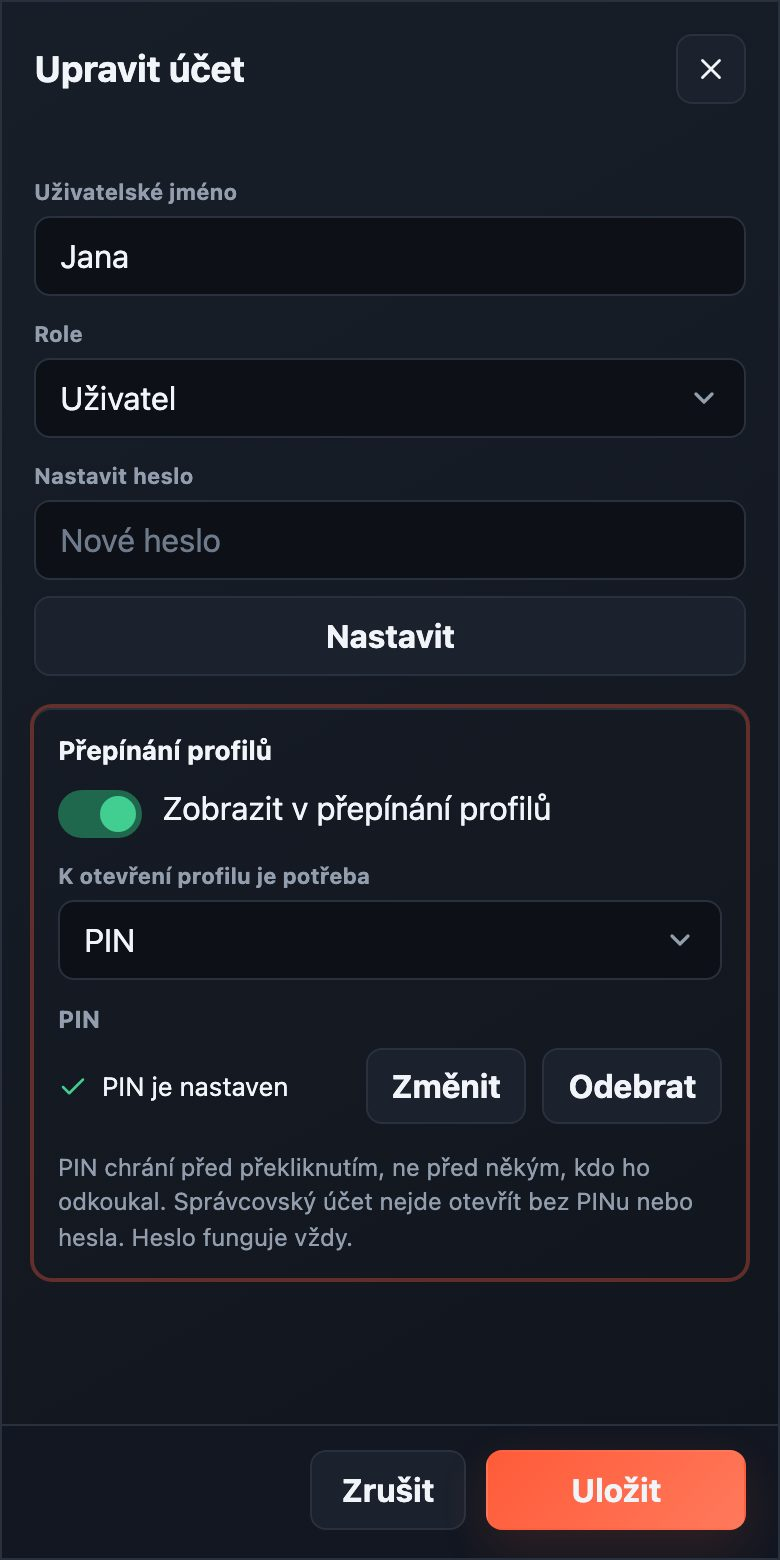
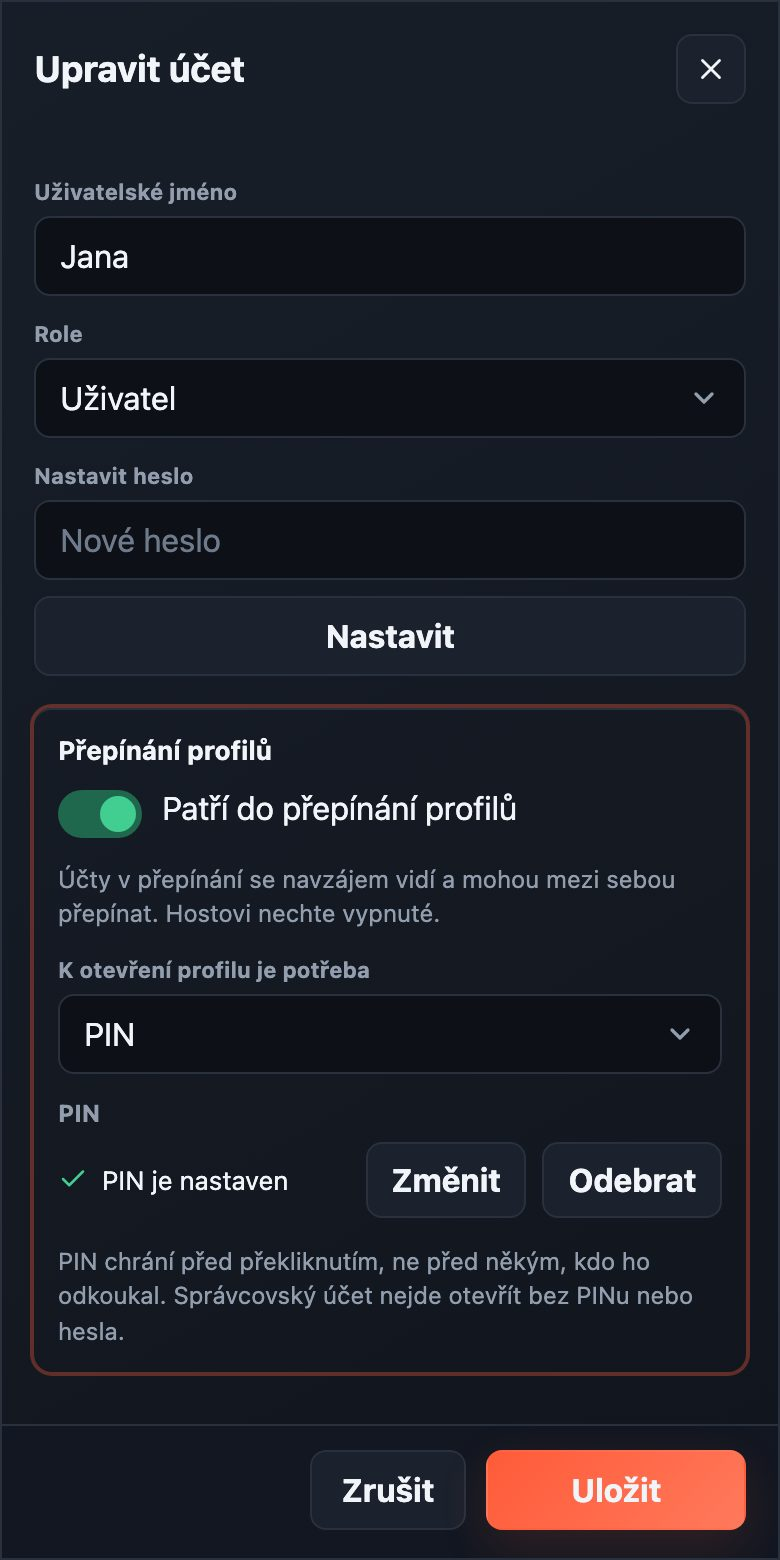
Make the profile switcher a closed group
Only accounts the administrator put in the switcher may list profiles or
switch, and only among themselves, so a guest account learns no names and
enters nothing. Records the first-entry-by-password rule as deferred.

diff --git a/docs/profile-switching-prototype/web.js b/docs/profile-switching-prototype/web.js
@@ -50,10 +50,11 @@ const admin = () => dialog("<h2>Upravit účet</h2>", `<section class="user-edit
     <label class="user-edit-field"><span>Role</span><select><option>Uživatel</option></select></label></div>
   <div class="user-edit-password"><label class="user-edit-field"><span>Nastavit heslo</span><input type="password" placeholder="Nové heslo"></label><button>Nastavit</button></div>
   <div class="profile-block proto-new" style="padding:12px"><h3>Přepínání profilů</h3>
-    <label class="user-switch"><span class="switch"><input type="checkbox" checked><span></span></span><span>Zobrazit v přepínání profilů</span></label>
+    <label class="user-switch"><span class="switch"><input type="checkbox" checked><span></span></span><span>Patří do přepínání profilů</span></label>
+    <p class="identify-hint">Účty v přepínání se navzájem vidí a mohou mezi sebou přepínat. Hostovi nechte vypnuté.</p>
     <div class="profile-block-row admin"><label class="user-edit-field"><span>K otevření profilu je potřeba</span><select><option>PIN</option><option>Nic</option><option>Heslo</option></select></label>
       <div class="user-edit-field"><span style="font-size:12px;color:var(--muted)">PIN</span><div class="profile-pin-state"><span>${I.check} PIN je nastaven</span><button>Změnit</button><button>Odebrat</button></div></div></div>
-    <p class="identify-hint">PIN chrání před překliknutím, ne před někým, kdo ho odkoukal. Správcovský účet nejde otevřít bez PINu nebo hesla. Heslo funguje vždy.</p></div>
+    <p class="identify-hint">PIN chrání před překliknutím, ne před někým, kdo ho odkoukal. Správcovský účet nejde otevřít bez PINu nebo hesla.</p></div>
   </section>`, `<button>Zrušit</button><button class="primary">Uložit</button>`, "user-edit-card");
 
 const own = () => `${chrome(false).replace(/<div class="proto-page">[\s\S]*?<\/div>/, `<div class="proto-page"><h2>Nastavení</h2><div class="proto-settings">

diff --git a/docs/profile-switching-spec.md b/docs/profile-switching-spec.md
@@ -19,7 +19,7 @@ one, without weakening what an account protects.
 | Question | Decision |
 | --- | --- |
 | What is a profile? | **An existing account.** No profiles under an account, no second key in personal data. "Profile" is only the word the switcher uses. |
-| Who decides which accounts can be switched to? | The administrator, per account. Off for every existing and new account. |
+| Who can switch, and to whom? | The administrator marks accounts as **in the profile switcher**. That one mark works both ways: the marked accounts see each other and can switch among themselves. An account without it — a friend's, a guest's — sees no profiles and cannot switch at all. Off for every existing and new account. |
 | What does entering a profile take? | Per account: **nothing**, a **PIN**, or the **password**. The default is the password. An administrator account can never be entered with nothing. |
 | What does a device show when it starts? | The account that was last active on it, as today. There is no "Who is watching?" screen and no household-device token. |
 | Kids mode | Out of scope. It comes after this and builds on it. |
@@ -60,14 +60,21 @@ Read [users.md](users.md) first. The parts this design leans on:
 5. **Attempts are counted per target account**, not per address: behind a
    reverse proxy the whole household shares one address, and four digits are
    only 10,000 guesses.
-6. **Who is listed is a disclosure the administrator opts into.** An account
-   not marked for the switcher is answered exactly like one that does not
-   exist.
+6. **The switcher is a closed group the administrator chooses.** Only an
+   account in it may list profiles or switch, and only to another account in
+   it. Having an account on the instance is not enough: somebody given an
+   account as a guest learns no names and enters nothing. To everybody, an
+   account outside the group is answered exactly like one that does not exist.
 
 A PIN is a convenience between people who share a living room. It is not a
 parental boundary on its own: a child who watches a parent type four digits has
 them. That is why the administrator's account defaults to the password and why
 the unlock method is chosen per account.
+
+`unlock: "none"` means what it says: any member of the group, on any device
+they are signed in on, enters that profile. A stricter rule — the first entry
+on each device takes the password, and a PIN or nothing works only after
+that — was considered and deferred; see [Not in this design](#not-in-this-design).
 
 ## Data model
 
@@ -76,7 +83,7 @@ mean today's behaviour, so no migration and no `schemaVersion` bump.
 
 | Field | Meaning |
 | --- | --- |
-| `switcher?: boolean` | The account is offered in the switcher. |
+| `switcher?: boolean` | The account is in the switcher group: it is offered to the other members and may itself switch. |
 | `unlock?: "none" \| "pin" \| "password"` | What entering it from the switcher takes. Absent means `"password"`. |
 | `pinHash?: string` | scrypt hash of the PIN, the same scheme as `passwordHash`. Never leaves the server. |
 
@@ -101,8 +108,8 @@ carries `cache-control: private, no-store`.
 
 ### `GET /profiles`
 
-For any signed-in account. Lists the accounts that can be switched to from this
-session.
+For any signed-in account. Lists the switcher group as this session sees it.
+A caller that is not in the group gets an empty list.
 
 ```json
 { "profiles": [
@@ -111,9 +118,11 @@ session.
 ] }
 ```
 
-- Contains accounts with `switcher: true` that are enabled and do not owe a
-  password change. The caller's own account is included only if it is marked
-  too, with `current: true`.
+- For a caller with `switcher: true`: the accounts with `switcher: true` that
+  are enabled and do not owe a password change, the caller's own among them
+  with `current: true`.
+- For any other caller: `{ "profiles": [] }`, the same answer an instance
+  with no group gives.
 - Order: the order of the account list, which is creation order.
 - `pinLocked` is present for `unlock: "pin"` and true while the PIN is locked
   (see [attempt limits](#attempt-limits)); the client then asks for the
@@ -127,8 +136,10 @@ session.
 Body: `{ "id": "usr_…", "pin"?: "1234", "password"?: "…" }`.
 
 1. The caller needs a valid session that does not owe a password change.
-2. The target must be in the caller's `GET /profiles` list and not be the
-   caller. Otherwise `404 err.profileUnavailable`, whatever the reason.
+2. The caller must be in the group, and the target must be in the caller's
+   `GET /profiles` list and not be the caller. Otherwise
+   `404 err.profileUnavailable`, whatever the reason: a caller outside the
+   group cannot tell a member from an account that does not exist.
 3. If the attempt limit says wait: `429 err.tooManyAttempts` with
    `retry-after`, before any secret is checked.
 4. Check the secret:
@@ -141,8 +152,9 @@ Body: `{ "id": "usr_…", "pin"?: "1234", "password"?: "…" }`.
      thing accepted while the PIN is locked. It is the same credential the
      sign-in screen takes.
 5. On success, inside one `store.update` that re-reads both accounts:
-   - re-check that the target is still listed, enabled, not owing a password
-     change and that its secret is the one the hash was checked against;
+   - re-check that the caller is still in the group and that the target is
+     still listed, enabled, not owing a password change and that its secret
+     is the one the hash was checked against;
    - add the caller's session id to the caller's `revoked` ledger;
    - set the target's `lastSeenAt`.
 6. Issue a session for the target signed with the target's secret, with the
@@ -178,7 +190,7 @@ the fallback rule above. Clears the attempt counter for this account.
 ### `GET /auth/me`
 
 Gains `canSwitch: boolean`: true when `GET /profiles` would return at least one
-entry other than the caller. Clients show the switcher entry only then, without
+entry other than the caller, so always false for an account outside the group. Clients show the switcher entry only then, without
 a second request on every start. Also gains `hasPin: boolean` for the caller's
 own settings.
 
@@ -299,7 +311,9 @@ stops them either way.
 
 - **Settings -> Users -> account dialog**, on the Account tab under the
   password, a **Profile switching** block:
-  - a switch **Show in the profile switcher**;
+  - a switch **In the profile switcher**, with a line under it: *Accounts in
+    the switcher see each other and can switch among themselves. Leave it off
+    for a guest.*;
   - **To open this profile**: a select with *Nothing*, *PIN*, *Password*.
     *Nothing* is absent for an administrator. Disabled while the switch above
     is off;
@@ -310,9 +324,8 @@ stops them either way.
     watched it being typed.
   The user list shows a small marker on accounts that are in the switcher.
 - **Settings -> Account**: **Profile PIN** for the signed-in account: set,
-  change or remove, each asking for the current password. Shown to every
-  account; a line says whether the administrator has put this account in the
-  switcher.
+  change or remove, each asking for the current password. Shown only to an
+  account that is in the switcher; a PIN is of no use to any other.
 
 ![The block in the account dialog](profile-switching-prototype/screens/web-admin.jpg)
 
@@ -353,6 +366,14 @@ All strings go through `web/src/i18n/en.ts` and `cs.ts`.
 
 - A profile chooser at start-up, and remembering a device as belonging to the
   household after sign-out.
+- **First entry on a device by password.** A PIN or nothing would work only on
+  a device where that account has already signed in with its password, proven
+  by a signed record the device keeps until the password changes. It would
+  stop one member entering another's profile on a device that person never
+  used, at the cost of device state and of typing every password once on each
+  television. Deferred by the owner on 2026-11-14 until the closed group
+  proves insufficient.
+- Separate rights to be listed and to switch. One mark covers both.
 - Kids mode: a child policy, a simplified Home, age ratings.
 - Profiles under one account, avatars or colours chosen by the user.
 - Biometric unlock, PIN on the sign-in screen, PIN for single actions
@@ -364,6 +385,10 @@ All strings go through `web/src/i18n/en.ts` and `cs.ts`.
 Server, as route tests against a real `Store`:
 
 - an unlisted, disabled, must-change or unknown target answers the same 404;
+- a caller outside the group gets an empty list, `canSwitch: false` and the
+  same 404 for a member, a non-member and an unknown id, even for a member
+  whose method is `none`; taking a caller out of the group between the check
+  and the write refuses the switch;
 - none / PIN / password each switch and each refuse the wrong secret;
 - a password works for a PIN profile and for a locked PIN;
 - the old session is revoked and stopped, the new one verifies with the

diff --git a/docs/profile-switching-agent-task.md b/docs/profile-switching-agent-task.md
@@ -10,8 +10,9 @@ intended screens.
 
 A signed-in device changes to another household account from a switcher, with
 nothing, a PIN or the password, as the administrator chose for that account.
-The administrator decides per account whether it is in the switcher. Web,
-desktop and Android TV all get it.
+The administrator decides per account whether it is in the switcher, and that
+one mark works both ways: only accounts in it see the profiles and may switch,
+and only among themselves. Web, desktop and Android TV all get it.
 
 ## Do not
 
@@ -24,6 +25,8 @@ desktop and Android TV all get it.
 - Do not persist attempt counters. Do not write the state file on a failed
   attempt.
 - Do not build kids mode, avatars or age filtering here.
+- Do not add the deferred "first entry on a device by password" rule or any
+  per-device record. Do not split the mark into separate rights.
 - Do not log or return a PIN, its hash or its length.
 
 ## Execute in this order
@@ -94,6 +97,10 @@ specification in the same commit.
 
 ## Things that are easy to get wrong
 
+- Check the **caller's** membership as well as the target's. A guest account
+  with a valid session must get an empty list and a 404 from the switch, even
+  for a member whose method is `none`. Checking only the target is the
+  obvious implementation and it is wrong.
 - The attempt guard is keyed by the target account. Keying it by `req.ip`
   makes it useless behind a reverse proxy.
 - The new session takes the **old session's expiry**. Issuing 30 fresh days
